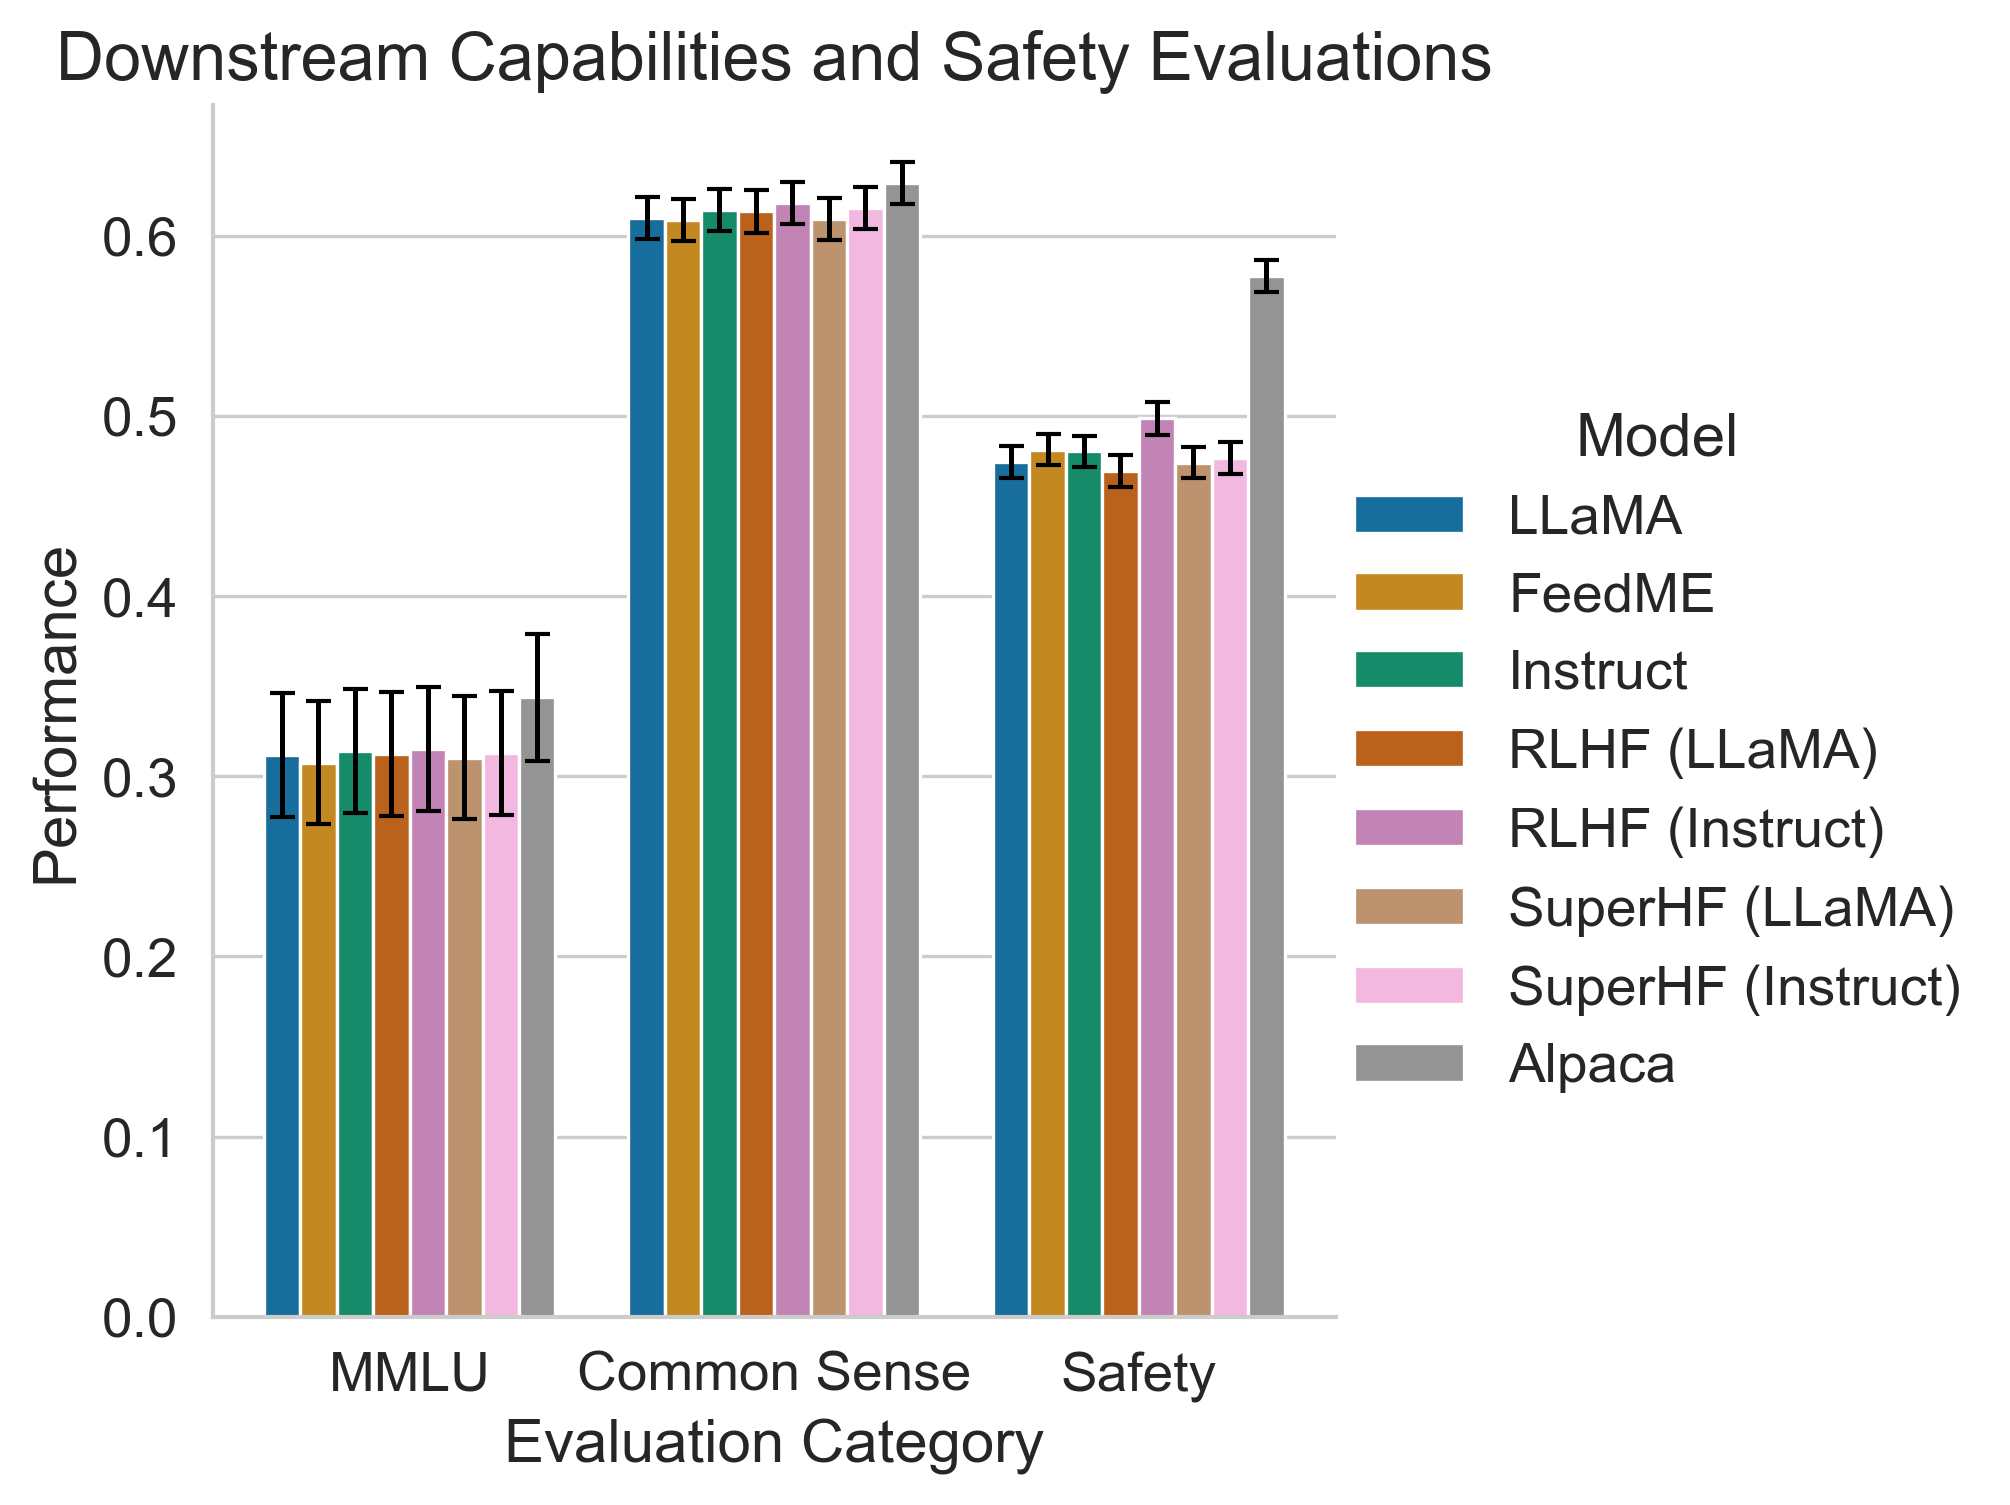
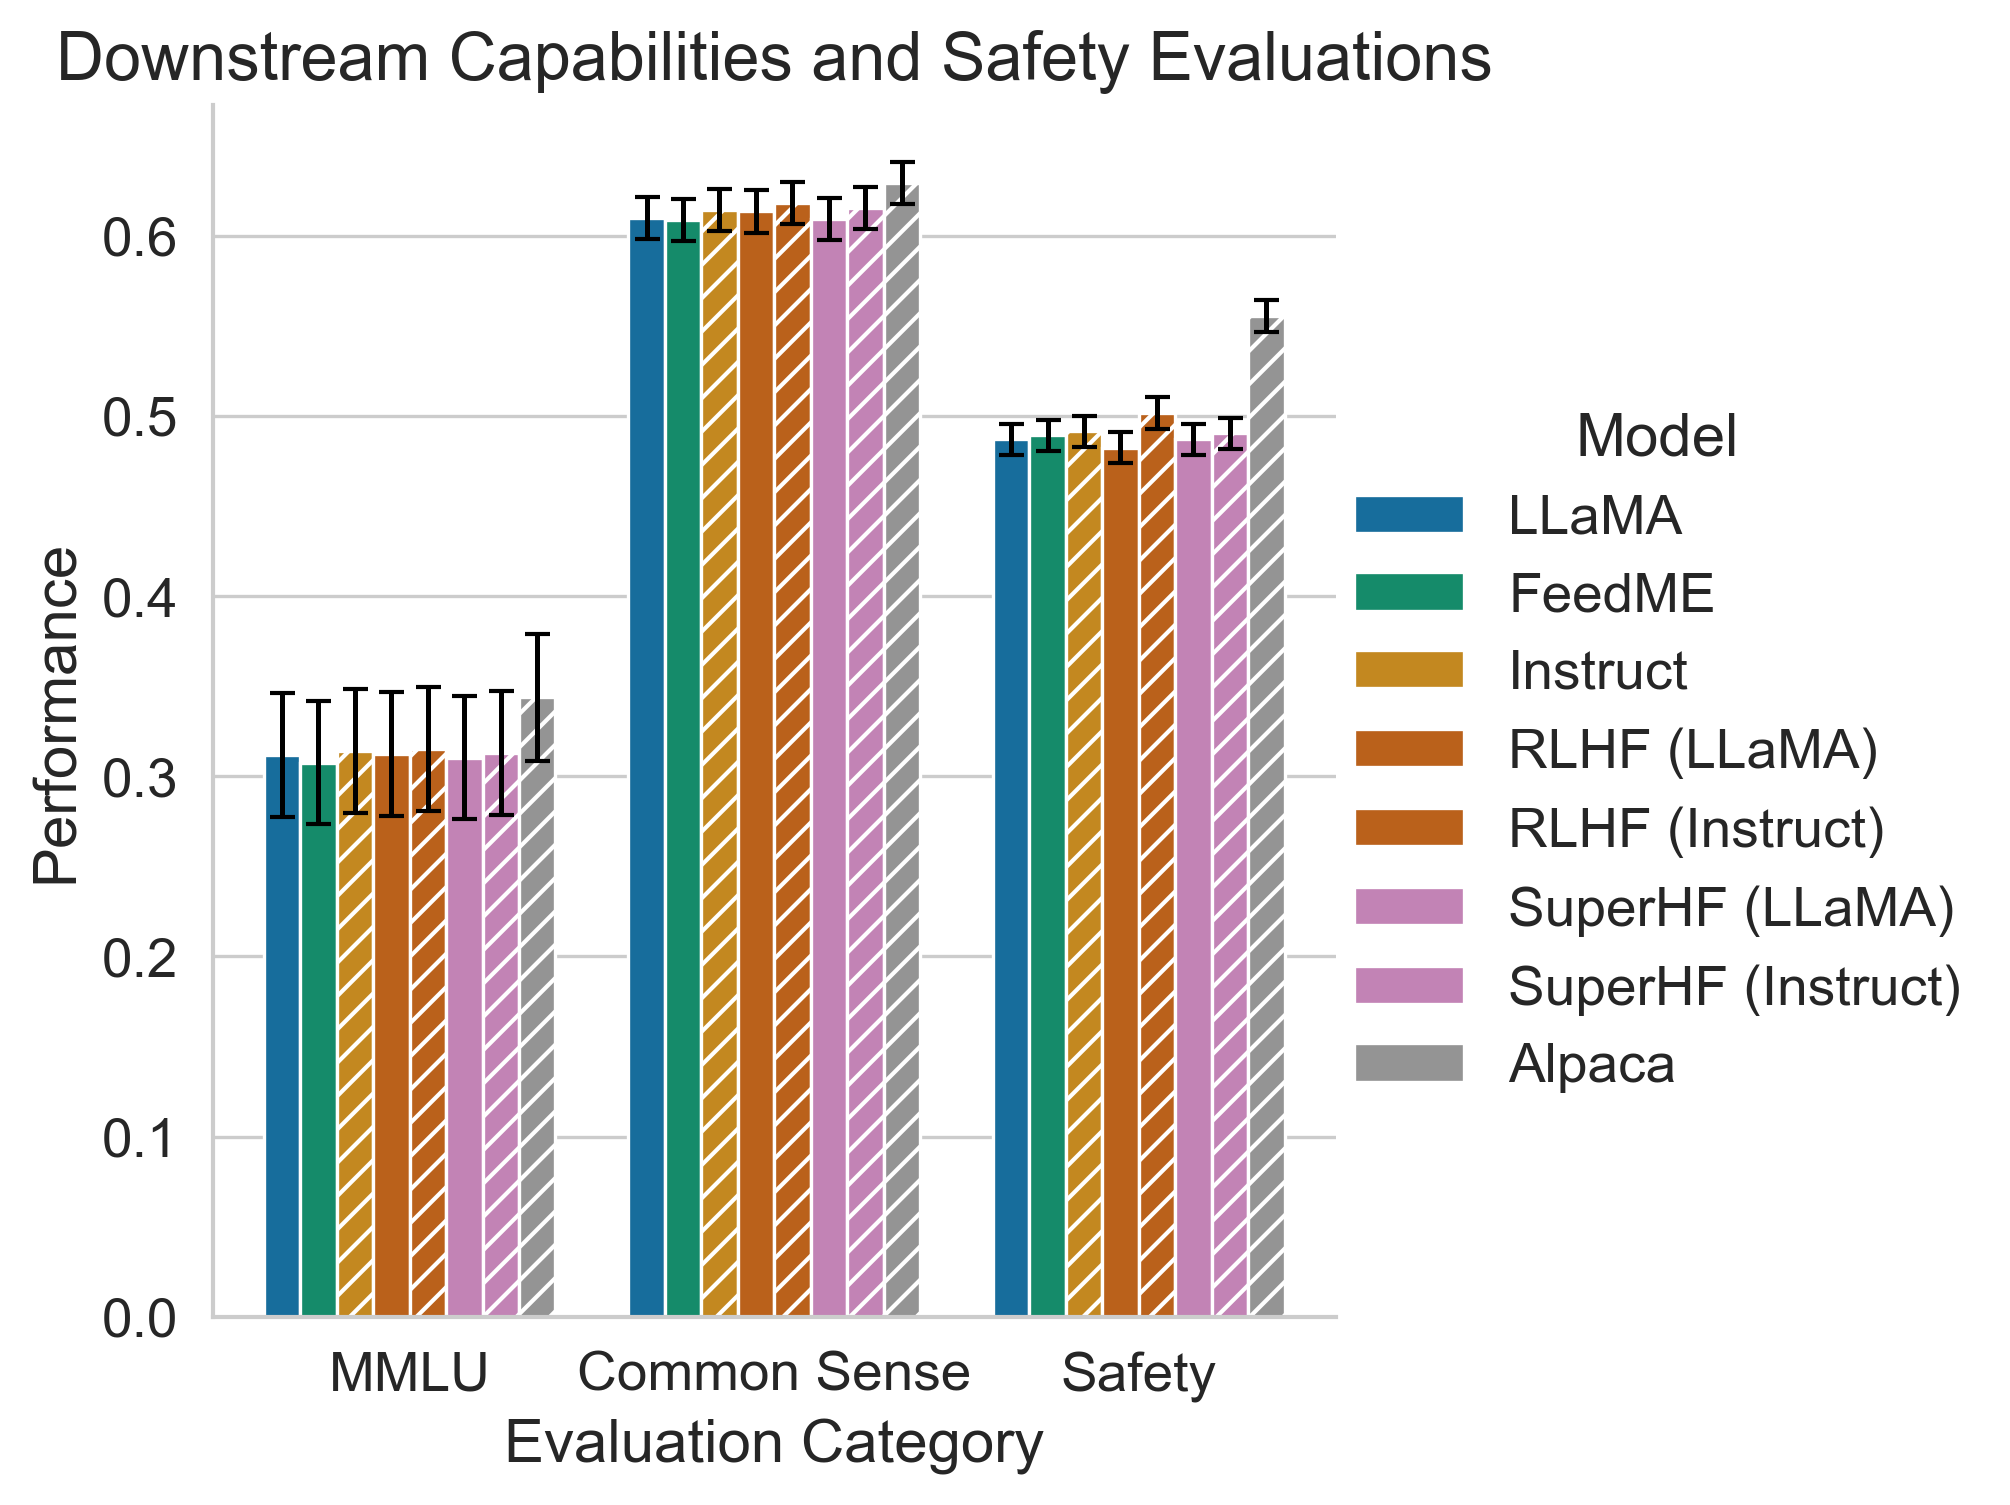
Add HHH  to downstream

diff --git a/charts/downstream_evals.py b/charts/downstream_evals.py
@@ -13,6 +13,8 @@ from chart_utils import (
     initialize_plot,
     save_plot,
     load_json,
+    model_type_to_palette_color,
+    model_type_to_hatch,
     MODEL_NAME_MAPPING,
     QUALITATIVE_MODEL_ORDER,
 )
@@ -26,6 +28,8 @@ def main() -> None:
     """Main function."""
 
     # pylint: disable=too-many-locals
+    # pylint: disable=too-many-branches
+    # pylint: disable=too-many-statements
 
     # Initialize
     initialize_plot()
@@ -63,6 +67,28 @@ def main() -> None:
                     accuracies.append(result["acc"])
                     errors.append(result["acc_stderr"])
 
+            # Add HHH evals from https://github.com/openfeedback/mmlu_and_hhh_evals manually
+            if category_folder == "safety":
+                # We add the Harmless, Helpful, and Honest Average Scores for each
+                if model_name == "LLaMA":
+                    accuracies.extend([0.499, 0.529, 0.533])
+                elif model_name == "FeedME":
+                    accuracies.extend([0.488, 0.511, 0.533])
+                elif model_name == "Instruct":
+                    accuracies.extend([0.5, 0.528, 0.536])
+                elif model_name == "RLHF (LLaMA)":
+                    accuracies.extend([0.483, 0.531, 0.537])
+                elif model_name == "RLHF (Instruct)":
+                    accuracies.extend([0.486, 0.515, 0.527])
+                elif model_name == "SuperHF (LLaMA)":
+                    accuracies.extend([0.502, 0.524, 0.539])
+                elif model_name == "SuperHF (Instruct)":
+                    accuracies.extend([0.499, 0.540, 0.542])
+                elif model_name == "Alpaca":
+                    accuracies.extend([0.370, 0.589, 0.531])
+                else:
+                    raise ValueError(f"Unknown model {model_name}")
+
             average_acc = np.average(accuracies)
             average_err = np.average(errors)
             all_data.append((category_name, model_name, average_acc, average_err))
@@ -74,11 +100,17 @@ def main() -> None:
         all_data, columns=["Category", "Model", "Average", "Error"]
     )
 
+    # Add color and hatch columns
+    colors = [
+        model_type_to_palette_color(model) for model in QUALITATIVE_MODEL_ORDER
+    ] * 3
+
     # Reorder the model names by QUALITATIVE_MODEL_ORDER
     dataframe["Model"] = pd.Categorical(dataframe["Model"], QUALITATIVE_MODEL_ORDER)
 
     # Create the plot
     plt.rcParams["lines.markersize"] = 1  # No markers for bar plots
+
     barplot = sns.catplot(
         data=dataframe,
         kind="bar",
@@ -86,11 +118,19 @@ def main() -> None:
         y="Average",
         hue="Model",
         capsize=0.1,
+        palette=colors,
         # yerr=dataframe["Error"],
         # errorbar="ci",
         # order=QUALITATIVE_MODEL_ORDER,
         # label="Pythia Base",
     )
+
+    # Add hatches
+    hatches = [[model_type_to_hatch(model)] * 3 for model in QUALITATIVE_MODEL_ORDER]
+    hatches = [hatch for sublist in hatches for hatch in sublist]
+    for i, patch in enumerate(barplot.ax.patches):
+        patch.set_hatch(hatches[i])
+    # TODO Add hatching to legend colors too
 
     # Add error bars
     for i, model in enumerate(dataframe["Model"].unique().categories):
